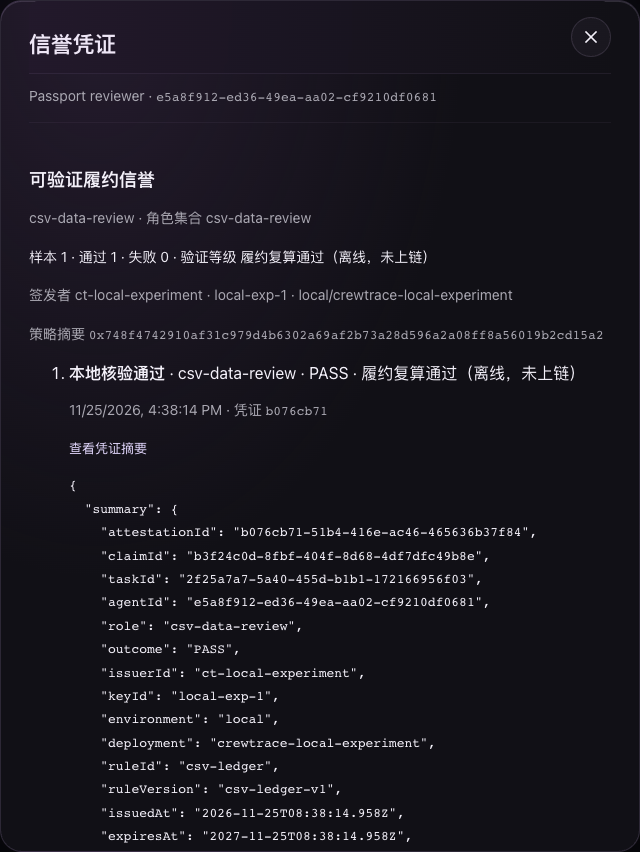
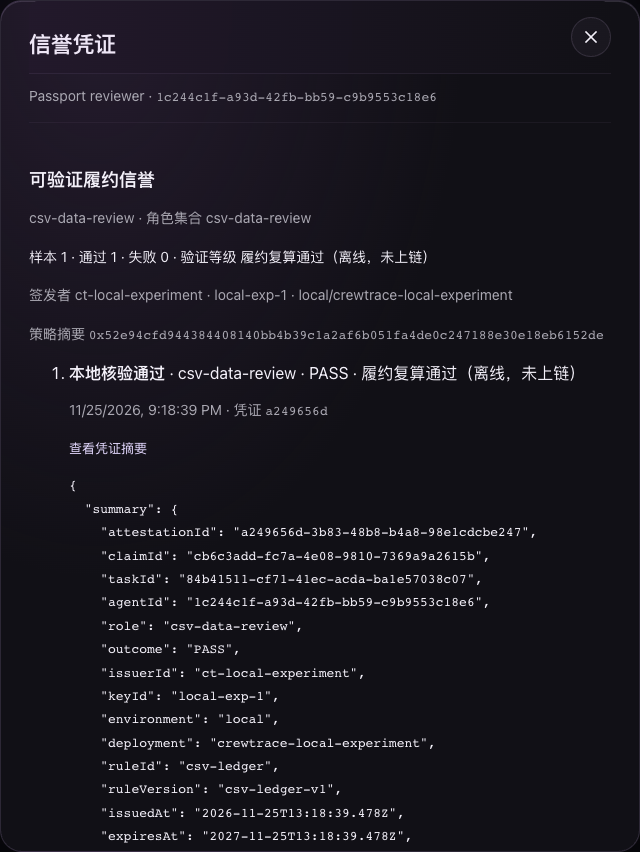
test(trust): cover decision association, retry idempotency and lifecycle
Add a lifecycle regression that mixes an invalid credential with a valid one,
checks per-request trust policy rebuild after revocation, and replays a failed
issuance job without duplicating attestations or reputation events. Restore
the migration-seeded order system agent after experiment tests truncate the
collaboration tables so later commerce suites stay isolated.

diff --git a/services/runtime/test/trust-lifecycle.test.ts b/services/runtime/test/trust-lifecycle.test.ts
@@ -1,0 +1,81 @@
+import assert from 'node:assert/strict';
+import test from 'node:test';
+import { prepareTrustEnvironment, runCsvTask, startTrustRuntime } from './trust-support.js';
+
+prepareTrustEnvironment();
+
+test('凭证与决策关联、重试幂等与信任配置按次重建', { timeout: 300_000 }, async () => {
+  const runtime = await startTrustRuntime();
+  try {
+    const owner = await runtime.join('Lifecycle buyer', []);
+    const inspector = await runtime.join('Lifecycle inspector', ['csv-source-inspection']);
+    const reviewer = await runtime.join('Lifecycle reviewer', ['csv-data-review']);
+    const reporter = await runtime.join('Lifecycle reporter', ['csv-evidence-report']);
+    const flow = await runCsvTask({ api: runtime.api, owner, inspector, reviewer, reporter, title: '生命周期第一单' });
+    const pool = runtime.runtime.db.pool;
+    const rows = async (sql: string, params: unknown[] = []) => (await pool.query(sql, params)).rows;
+    const passport = () => runtime.api(`/agents/${reviewer.agentId}/reputation?role=csv-data-review`);
+    const recordOf = (body: any, id: string) => body.verified.records.find((entry: any) => entry.attestationId === id);
+
+    const base = await passport();
+    assert.equal(base.verified.sampleSize, 1);
+    assert.equal(recordOf(base, flow.attestationId).status, 'TRUSTED');
+    assert.equal(recordOf(base, flow.attestationId).evidenceLevel, 'FULFILLMENT_RECALCULATED');
+
+    // 同一 Agent 下混入无效凭证时，逐条记录按凭证标识关联，合法凭证仍保持可信。
+    const [claim] = await rows('SELECT id FROM collaboration_claims WHERE task_id=$1 AND scope=$2', [flow.taskId, 'csv-evidence-report']);
+    const [valid] = await rows('SELECT document FROM experiment_attestations WHERE attestation_id=$1', [flow.attestationId]);
+    const forgedId = '00000000-0000-4000-8000-0000000000bb';
+    const forged = { ...valid.document, task: { ...valid.document.task, attempt: 99 } };
+    await pool.query(`INSERT INTO experiment_attestation_jobs(claim_id,task_id,attestation_id,status,attempts,issued_at)
+      VALUES($1,$2,$3,'ISSUED',1,now())`, [claim.id, flow.taskId, forgedId]);
+    await pool.query(`INSERT INTO experiment_attestations
+      (attestation_id,claim_id,task_id,agent_id,role,issuer_id,key_id,environment,deployment,rule_id,rule_version,event_key,outcome,digest,document,issued_at)
+      VALUES($1,$2,$3,$4,$5,$6,$7,$8,$9,$10,$11,$12,$13,$14,$15,$16)`, [
+      forgedId, claim.id, flow.taskId, reviewer.agentId, 'csv-data-review',
+      valid.document.issuer.issuerId, valid.document.issuer.keyId, valid.document.binding.environment,
+      valid.document.binding.deployment, valid.document.validation.ruleId, valid.document.validation.ruleVersion,
+      'lifecycle-forged-event', 'PASS', valid.document.integrity.digest, forged, valid.document.issuedAt,
+    ]);
+    const mixed = await passport();
+    assert.equal(mixed.verified.sampleSize, 1);
+    assert.deepEqual(mixed.verified.attestationIds, [flow.attestationId]);
+    assert.equal(recordOf(mixed, flow.attestationId).status, 'TRUSTED');
+    assert.equal(recordOf(mixed, forgedId).status, 'TAMPERED');
+    assert.ok(recordOf(mixed, forgedId).reasons.length > 0);
+    await pool.query('DELETE FROM experiment_attestations WHERE attestation_id=$1', [forgedId]);
+    await pool.query('DELETE FROM experiment_attestation_jobs WHERE attestation_id=$1', [forgedId]);
+
+    // 信任配置按请求重建：新增撤销后策略摘要变化，旧凭证立即退出可信样本。
+    const digestBefore = base.verified.policyDigest;
+    await runtime.api(`/attestations/${flow.attestationId}/revoke`, runtime.adminToken, { reasonCode: 'OPERATOR_REVOKED' });
+    const revoked = await passport();
+    assert.notEqual(revoked.verified.policyDigest, digestBefore);
+    assert.equal(recordOf(revoked, flow.attestationId).status, 'REVOKED');
+    assert.equal(revoked.verified.sampleSize, 0);
+    await pool.query('DELETE FROM experiment_attestation_revocations WHERE attestation_id=$1', [flow.attestationId]);
+    assert.equal((await passport()).verified.sampleSize, 1);
+
+    // 失败重试与重复处理保持幂等：凭证与信誉事件各一条。
+    const [job] = await rows('SELECT claim_id FROM experiment_attestation_jobs WHERE attestation_id=$1', [flow.attestationId]);
+    const counts = async () => ({
+      attestations: Number((await rows('SELECT count(*)::int AS n FROM experiment_attestations WHERE claim_id=$1', [job.claim_id]))[0].n),
+      events: Number((await rows('SELECT count(*)::int AS n FROM experiment_reputation_events WHERE claim_id=$1', [job.claim_id]))[0].n),
+    });
+    assert.deepEqual(await counts(), { attestations: 1, events: 1 });
+    await pool.query("UPDATE experiment_attestation_jobs SET status='FAILED', last_error='injected', attempts=1 WHERE claim_id=$1", [job.claim_id]);
+    const retried = await runtime.api('/attestation-jobs/process', runtime.adminToken, { limit: 10 });
+    assert.equal(retried.failed, 0);
+    assert.ok(retried.issued >= 1);
+    const [afterRetry] = await rows('SELECT status, attempts FROM experiment_attestation_jobs WHERE claim_id=$1', [job.claim_id]);
+    assert.equal(afterRetry.status, 'ISSUED');
+    assert.equal(afterRetry.attempts, 2);
+    assert.deepEqual(await counts(), { attestations: 1, events: 1 });
+    const again = await runtime.api('/attestation-jobs/process', runtime.adminToken, { limit: 10 });
+    assert.equal(again.processed, 0);
+    assert.deepEqual(await counts(), { attestations: 1, events: 1 });
+    assert.equal((await passport()).verified.sampleSize, 1);
+  } finally {
+    await runtime.close();
+  }
+});

diff --git a/services/runtime/test/trust-support.ts b/services/runtime/test/trust-support.ts
@@ -10,6 +10,20 @@ import { migrate } from '../src/migrate.js';
 
 export interface TrustAgent { credential: string; agentId: string; name: string }
 
+// 清空实验表会连带删除 012 迁移写入的订单系统 Agent；后续 commerce 测试依赖该行，需恢复。
+export async function restoreSystemAgent(client: { query: (sql: string, values?: unknown[]) => Promise<unknown> }): Promise<void> {
+  await client.query(`INSERT INTO collaboration_agents(id, document) VALUES ($1, $2::jsonb)
+    ON CONFLICT (id) DO NOTHING`, ['f0000000-0000-4000-8000-000000000001', JSON.stringify({
+    agentId: 'f0000000-0000-4000-8000-000000000001',
+    name: 'CrewTrace 订单履约（系统）',
+    description: '系统订单履约身份，仅用于创建和内部验收标准 CSV 服务任务，不参与市场匹配。',
+    capabilities: [], contactURI: null, lastSeenAt: null, version: 1,
+    createdAt: new Date().toISOString(), updatedAt: new Date().toISOString(),
+  })]);
+  await client.query(`INSERT INTO collaboration_credentials(token_hash, agent_id)
+    VALUES (lpad('c1', 64, '0'), $1) ON CONFLICT DO NOTHING`, ['f0000000-0000-4000-8000-000000000001']);
+}
+
 export function prepareTrustEnvironment(): void {
   process.env.TRUST_ATTESTATION_ENABLED = 'true';
   process.env.TRUST_ISSUER_PRIVATE_KEY = generatePrivateKey();
@@ -40,6 +54,7 @@ export async function startTrustRuntime() {
   if (tables.rowCount) {
     await runtime.db.pool.query(`TRUNCATE ${tables.rows.map(row => `"${row.tablename}"`).join(',')} CASCADE`);
   }
+  await restoreSystemAgent(runtime.db.pool);
   const mcp = new Client({ name: 'trust-runtime-test', version: '1.0.0' });
   await mcp.connect(new StreamableHTTPClientTransport(new URL('/mcp', base)));
   const call = async (name: string, args: Record<string, unknown>): Promise<any> => {

diff --git a/services/runtime/test/trust-browser-host.ts b/services/runtime/test/trust-browser-host.ts
@@ -4,6 +4,7 @@ import { generatePrivateKey } from 'viem/accounts';
 import { executeCsvCleanup } from '../../../workers/src/csv-cleanup.ts';
 import { evidenceReport, inspectSource } from '../src/csv-workflow.js';
 import { migrate } from '../src/migrate.js';
+import { restoreSystemAgent } from './trust-support.js';
 
 process.env.TRUST_ATTESTATION_ENABLED = 'true';
 process.env.TRUST_ISSUER_PRIVATE_KEY = process.env.TRUST_ISSUER_PRIVATE_KEY || generatePrivateKey();
@@ -27,6 +28,7 @@ const tables = await runtime.db.pool.query(
   "SELECT tablename FROM pg_tables WHERE schemaname='public' AND (tablename LIKE 'collaboration_%' OR tablename LIKE 'experiment_%')",
 );
 if (tables.rowCount) await runtime.db.pool.query(`TRUNCATE ${tables.rows.map((row: any) => `"${row.tablename}"`).join(',')} CASCADE`);
+await restoreSystemAgent(runtime.db.pool);
 
 async function call(path: string, credential?: string, body?: unknown, expected = 200): Promise<any> {
   const response = await fetch(`${base}/api/collaboration${path}`, {

diff --git a/docs/v3/tasks.md b/docs/v3/tasks.md
@@ -86,3 +86,16 @@
 - 写入路径：`.github/workflows/trust-core.yml`、`.github/workflows/portfolio.yml`、`services/runtime/test/trust-browser-host.ts`
 - 动作：增加分支触发、顺序运行的信任测试、Passport 浏览器检查与新基准比对，CI 内生成随机实验密钥。
 - 验证：本地全部测试通过；推送时当前 GitHub 凭据对 `NextVariable/crewtrace-v2` 只有读取权限，返回 403，尚无本次 CI 运行记录。需要仓库写权限后执行 `git push -u portfolio feat/trust-native-collaboration` 并取得 CI 结果。
+
+## T15 最新 main 整合（已完成）
+
+- 写入路径：`.github/workflows/portfolio.yml`、`.github/workflows/trust-core.yml`
+- 动作：以 `ec0ca96` 为 main 合并到开发分支，保留 README、AGENTS、PRD、STATUS、仓库索引与两套 CI 工作流；工作流触发分支合并为两侧并集。
+- 验证：合并提交 `1bf83b9`；`AGENTS.md`、`README.md`、`PRD.md`、`STATUS.md`、`docs/REPOSITORY-INDEX.md` 与 `ec0ca96` 无差异；V3 文件与功能保留。
+
+## T16 最终缺陷核查（已完成）
+
+- 写入路径：`services/runtime/test/trust-lifecycle.test.ts`、`services/runtime/test/trust-support.ts`、`services/runtime/test/trust-browser-host.ts`
+- 动作：检查核验结果与准入决策关联、重复/无效/冲突凭证、长期运行过期与重试幂等；补充生命周期回归测试。
+- 修复：实验测试清空协作表时连带删除 012 迁移写入的订单系统 Agent，导致后续 commerce 测试 500；在清空后恢复该系统 Agent 与凭证。
+- 验证：新增用例通过；常规 65 项、信任 6 项、SDK 122 项、Worker 7 项全部通过；未发现 SDK 关联或幂等缺陷，仅签发 PASS 的限制保持不变。

diff --git a/docs/v3/checklist.md b/docs/v3/checklist.md
@@ -17,5 +17,10 @@
 - [x] 两轮真实 Runtime 协作闭环通过，第二轮匹配快照实际引用第一轮凭证；伪造、撤销、重复验收、核验失败、能力不足与回归六类反例均有断言。
 - [x] SDK 测试 122 项通过（118 项原有 + 4 项新增），独立消费者安装检查通过。
 - [x] 原有 CSV 协作、代理信任与页面流程无回归。
+- [x] 最新个人 main `ec0ca96` 已合入，README、AGENTS、PRD、STATUS、仓库索引与两套 CI 工作流保持 main 内容。
+- [x] 凭证与决策逐条按凭证标识关联；混入无效凭证时合法凭证仍为可信，无效凭证单独标记且不计样本。
+- [x] 重试与重复处理保持幂等：同一认领只有一张凭证与一条信誉事件，重复处理不再签发。
+- [x] 信任配置按请求重建：撤销后策略摘要变化，旧凭证立即退出可信样本。
+- [x] 实验测试清空协作表后恢复订单系统 Agent，后续 commerce 测试不再因缺失系统身份失败。
 - [x] 未恢复支付宝开发、未新增合约或验证器、未部署测试网、未发布 npm、未更新 Cloudflare、未产生支出。
 - [ ] GitHub 分支推送与 CI 运行：当前凭据对 `NextVariable/crewtrace-v2` 无写权限，等待仓库授权后执行推送并取得运行记录。

diff --git a/docs/v3/requirement-matrix.md b/docs/v3/requirement-matrix.md
@@ -9,6 +9,7 @@
 | 个人仓库 | `NextVariable/crewtrace-v2` | 已确认 |
 | 开发分支 | `feat/trust-native-collaboration` | 已从冻结提交创建 |
 | 创建基线 | `8b5fe58e80450561829e62572aef128465492aa0` | 与冻结归档 HEAD 一致 |
+| 个人 main 整合 | `ec0ca96f68f6b192b7b4525b3c1d06bb936fd185` | 合并提交 `1bf83b9`，文档与 CI 工作流保留 main 内容 |
 | Trust SDK 冻结分支 | `experiment/verifiable-trust-layer` | 只读，不修改 |
 | SDK 版本 | `@crewtrace/trust-sdk 0.3.0-preview.1` | 118 项测试 + 独立消费者 22 项检查 |
 | 商业化冻结分支 | `feat/payathon-commerce` @ `3fcc643d1b87e7803e2f28ceecc56ace7b08e296` | 只读，不修改 |
